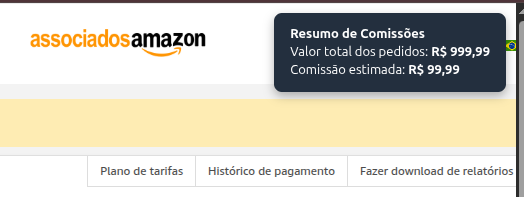
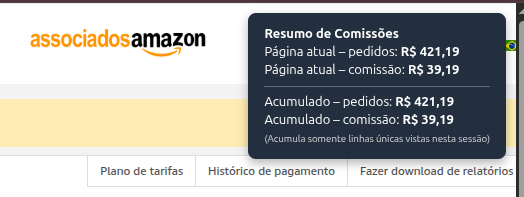
multi pages

Changed region(s): [[0.458, 0.0609, 0.9771, 0.8528]]

diff --git a/content.js b/content.js
@@ -135,6 +135,20 @@
     return tables[0];
   }
 
+  // ---- ACÚMULO ENTRE PÁGINAS ----
+  // Conjunto com chaves únicas das linhas já consideradas no acumulado
+  const seenRowKeys = new Set();
+  let globalTotalValue = 0;
+  let globalTotalCommission = 0;
+
+  function getRowKey(row) {
+    // Usa o texto inteiro da linha como "assinatura"
+    // Se a mesma linha aparecer em outra página, a key será igual.
+    return (row.innerText || "")
+      .replace(/\s+/g, " ")
+      .trim();
+  }
+
   function calculateCommission() {
     const table = findOrdersTable();
     if (!table) return;
@@ -143,8 +157,8 @@
     if (!rows.length) rows = table.querySelectorAll("tr");
     if (!rows.length) return;
 
-    let totalValue = 0;
-    let totalCommission = 0;
+    let pageValue = 0;
+    let pageCommission = 0;
 
     rows.forEach(row => {
       const cells = row.querySelectorAll("td");
@@ -158,14 +172,23 @@
       const rate = getCommissionRate(category);
       const commission = price * rate;
 
-      totalValue += price;
-      totalCommission += commission;
+      // Sempre soma o total da página atual
+      pageValue += price;
+      pageCommission += commission;
+
+      // Agora cuida do ACUMULADO (sem repetir)
+      const key = getRowKey(row);
+      if (!seenRowKeys.has(key)) {
+        seenRowKeys.add(key);
+        globalTotalValue += price;
+        globalTotalCommission += commission;
+      }
     });
 
-    showResult(totalValue, totalCommission);
+    showResult(pageValue, pageCommission, globalTotalValue, globalTotalCommission);
   }
 
-  function showResult(totalValue, totalCommission) {
+  function showResult(pageValue, pageCommission, totalValue, totalCommission) {
     let box = document.getElementById("amazon-comissao-box");
     if (!box) {
       box = document.createElement("div");
@@ -181,30 +204,41 @@
       box.style.fontFamily = "system-ui";
       box.style.fontSize = "13px";
       box.style.boxShadow = "0 4px 10px rgba(0,0,0,0.3)";
-      box.style.maxWidth = "260px";
+      box.style.maxWidth = "280px";
       box.style.lineHeight = "1.4";
       document.body.appendChild(box);
     }
 
     box.innerHTML = `
       <strong>Resumo de Comissões</strong><br>
-      Valor total dos pedidos: <strong>R$ ${formatBRL(totalValue)}</strong><br>
-      Comissão estimada: <strong>R$ ${formatBRL(totalCommission)}</strong>
+      <span>Página atual – pedidos:</span> <strong>R$ ${formatBRL(pageValue)}</strong><br>
+      <span>Página atual – comissão:</span> <strong>R$ ${formatBRL(pageCommission)}</strong>
+      <hr style="border:0;border-top:1px solid rgba(255,255,255,0.3);margin:6px 0;">
+      <span>Acumulado – pedidos:</span> <strong>R$ ${formatBRL(totalValue)}</strong><br>
+      <span>Acumulado – comissão:</span> <strong>R$ ${formatBRL(totalCommission)}</strong><br>
+      <small style="opacity:.8;">(Acumula somente linhas únicas vistas nesta sessão)</small>
     `;
   }
 
   // --- MULTI-PÁGINAS! MutationObserver ---
   let lastHTML = "";
+  let debounceTimeout = null;
 
   const observer = new MutationObserver(() => {
     const table = findOrdersTable();
     if (!table) return;
-
     const html = table.innerHTML;
 
     if (html !== lastHTML) {
       lastHTML = html;
-      setTimeout(calculateCommission, 300);
+
+      if (debounceTimeout) {
+        clearTimeout(debounceTimeout);
+      }
+
+      debounceTimeout = setTimeout(() => {
+        calculateCommission();
+      }, 250);
     }
   });
 
